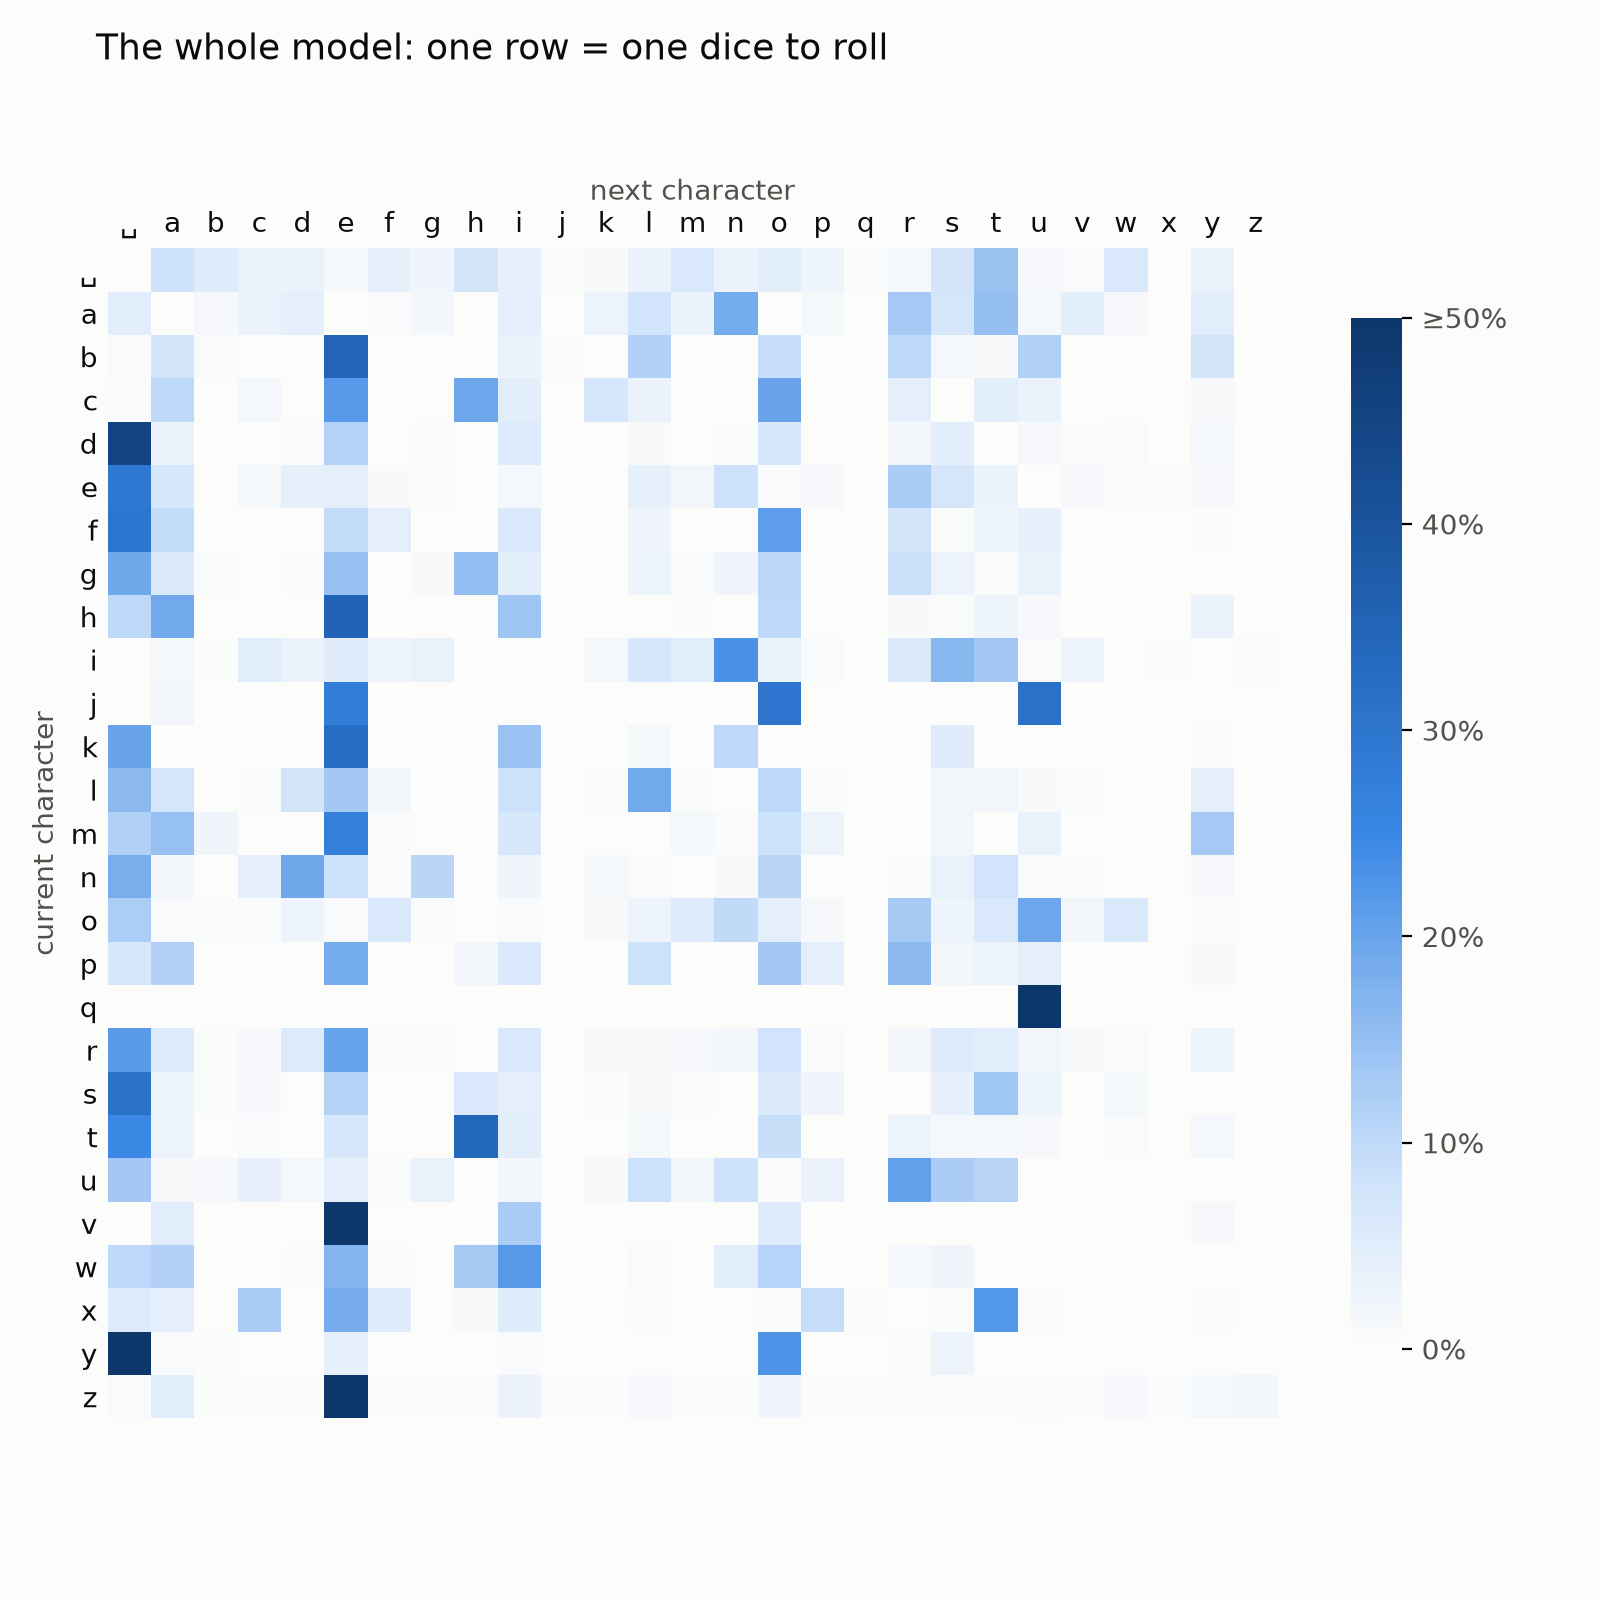
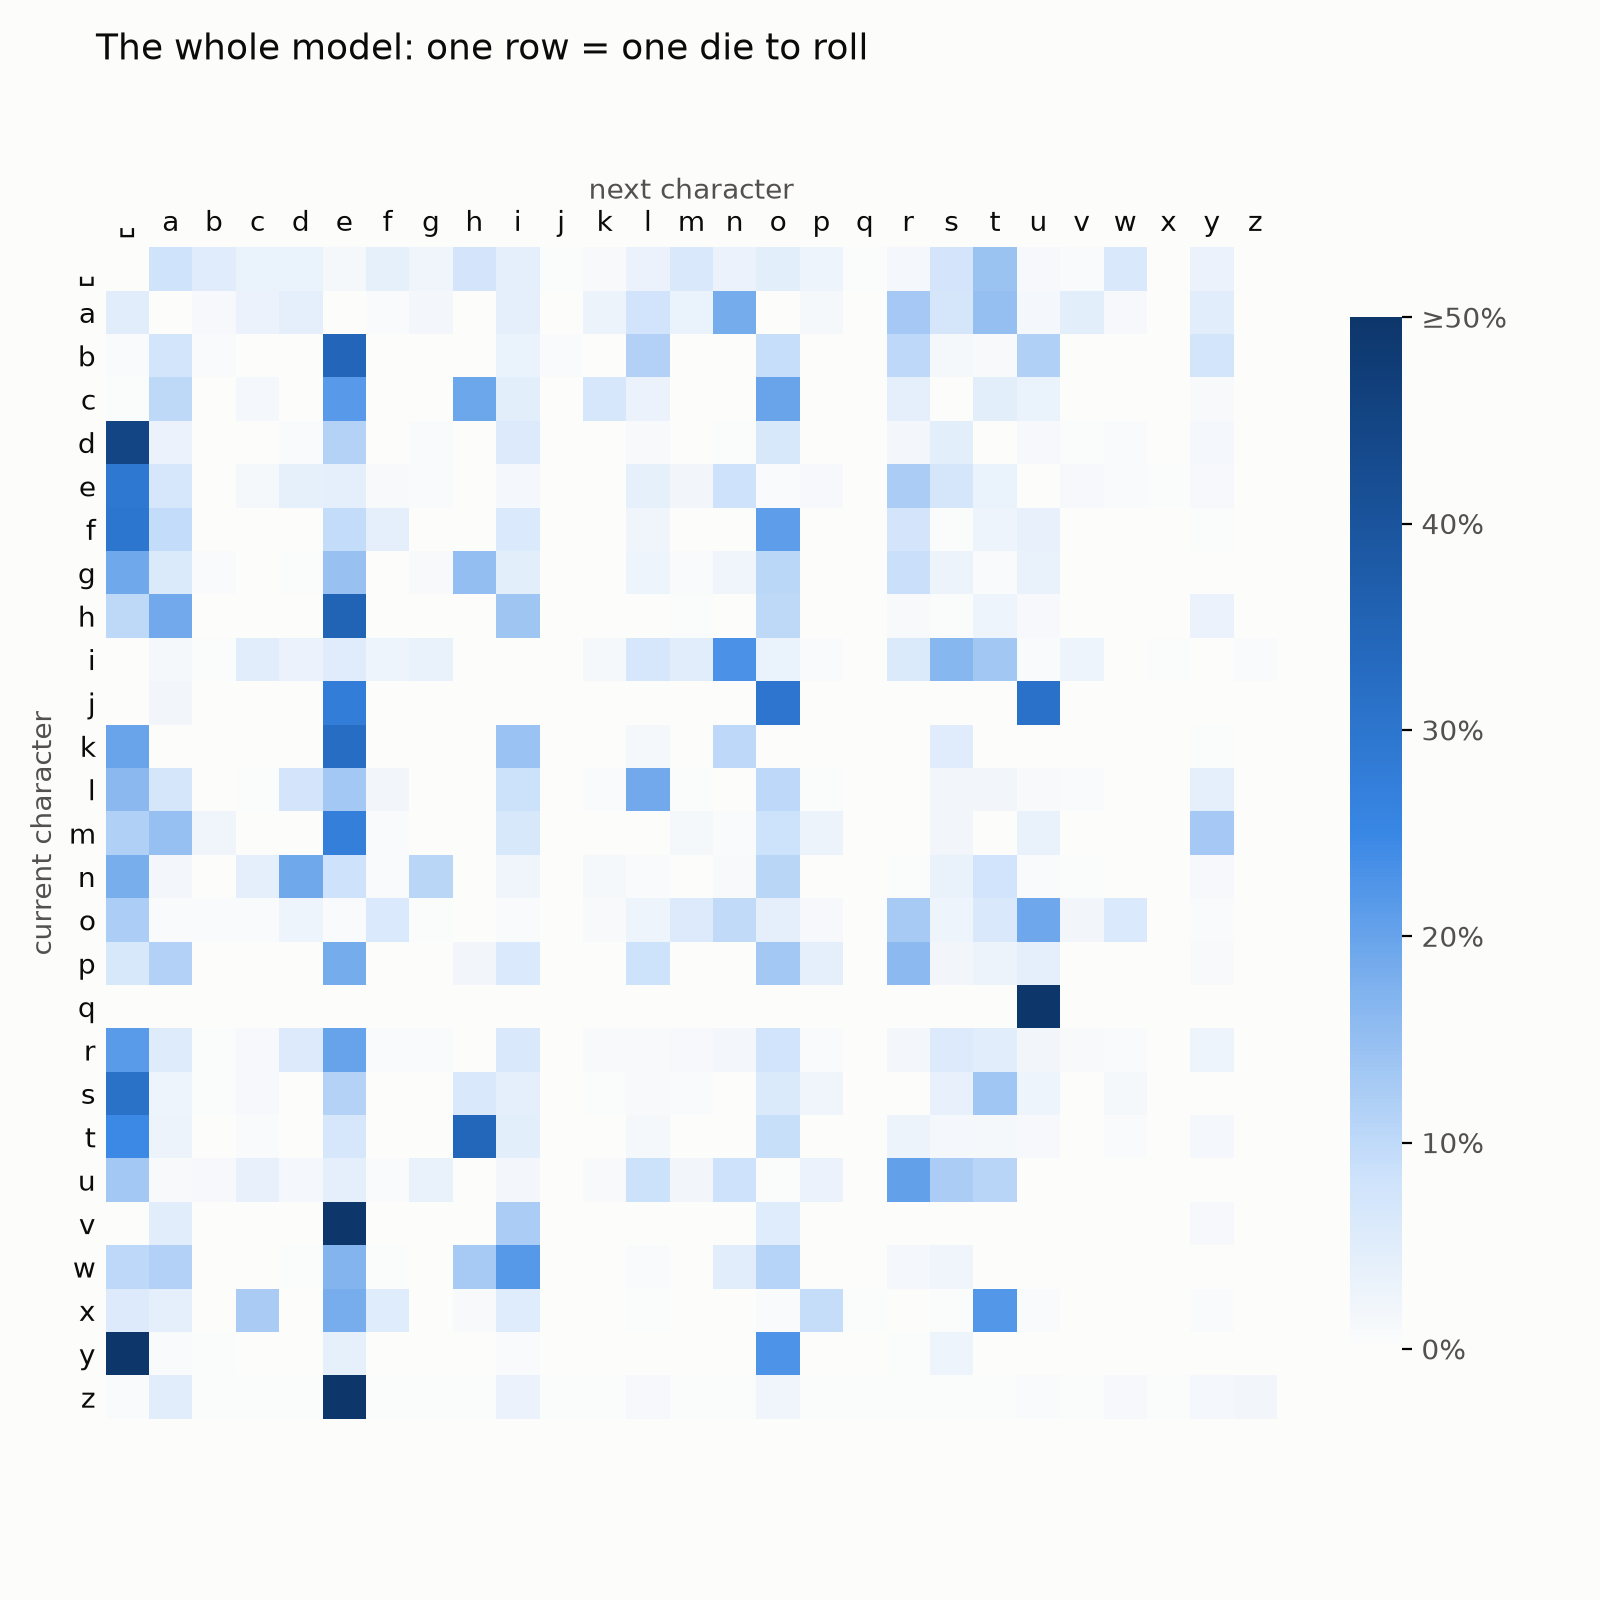
Blog post 1: reviewer fixes, consistent headings and terms, rabbit hole boxes

diff --git a/blog/make_charts.py b/blog/make_charts.py
@@ -104,7 +104,7 @@ def bigram_heatmap():
     bar.ax.set_yticklabels(["0%", "10%", "20%", "30%", "40%", "≥50%"], color=TEXT_MUTED)
     bar.outline.set_visible(False)
 
-    fig.suptitle("The whole model: one row = one dice to roll", x=0.06, ha="left", color=TEXT, fontsize=13)
+    fig.suptitle("The whole model: one row = one die to roll", x=0.06, ha="left", color=TEXT, fontsize=13)
     fig.tight_layout()
     fig.savefig(IMAGES / "bigram_heatmap.png", dpi=200)
 
@@ -241,7 +241,7 @@ BRICKS = [
     ("tokenizer", "text \u2194 ids:  \"hi\" \u2192 [46, 47]", "#fe8a18"),
     ("split", "90% for learning, 10% locked away", "#f2cd37"),
     ("train", "count every pair \u2192 65\u00d765 table", "#0055bf"),
-    ("evaluate", "score it on the locked-away 10%", "#237841"),
+    ("evaluate", "score on training + the locked-away 10%", "#237841"),
     ("generate", "roll dice \u2192 new text", "#81007b"),
 ]
 

diff --git a/blog/01-just-count.md b/blog/01-just-count.md
@@ -8,14 +8,14 @@
 
 This is Part 1 of a series where I build a **language model from scratch, one idea at a time**, as someone who isn't comfortable with neural networks yet. I'm following Andrej Karpathy's ["Let's build GPT"](https://www.youtube.com/watch?v=kCc8FmEb1nY), split into small levels I can actually understand:
 
-1. **This post:** the smallest *complete* system: we feed the text in, a simple model that learns, and generates text, and a way to **score** it. Our model is deliberately dumb. What matters is the setup.
+1. **This post:** the smallest *complete* system: load some text, build a simple model that learns from it and writes, and find a way to **score** it. Our model is deliberately dumb. What matters is the setup.
 2. **The posts after this:** one new idea per post, each one adding a row to a **scoreboard** that goes from random gibberish to something that actually reads like text. I'm starting with Shakespeare, like Andrej, so my numbers can be checked against his. The end goal is a model that learns from and writes **Indian text**. (Which datasets should I try? Tell me in the comments :P)
 
 ---
 
 ## What is an LLM?
 
-LLM stands for **Large Language Model**. It's a sophisticated piece of tech that **predicts the next word** (more precisely, the next *token*) in a language it was trained on.
+LLM stands for **Large Language Model**. It's a program that **predicts the next word** (more precisely, the next *token*) in a language it was trained on.
 
 That's really the whole trick. Predict the next token, add it to the text, and ask again. Do that in a loop and the model *writes*:
 
@@ -23,7 +23,7 @@ That's really the whole trick. Predict the next token, add it to the text, and a
 
 *Made-up probabilities, but the loop is real: guess the next word, pick one, append it, repeat.*
 
-Lets break down each word in a LLM:
+Let's break down each word in LLM:
 
 **Large:** everything about these models is huge.
 
@@ -47,7 +47,7 @@ Hmm, the simplest way: ask the machine to pick random characters, one after anot
 
 ```python
 # an extremely dumb machine that writes, hehe..
-chars = sorted(set(text))  # the 65 different characters in english
+chars = sorted(set(text))  # every distinct character in our text (65 for Shakespeare)
 for i in range(200):
     print(random.choice(chars), end="")
 ```
@@ -69,7 +69,7 @@ What could be a better idea?
 
 But how do we calculate those probabilities? How do we know what comes after `_`?
 
-Answer : We learn them from examples. For that we first need a **dataset**: a long piece of real text where we can see which characters tend to follow which. I'm using [Tiny Shakespeare](https://raw.githubusercontent.com/karpathy/char-rnn/master/data/tinyshakespeare/input.txt), which contains about 1.1 million characters of plays:
+Answer: We learn them from examples. For that we first need a **dataset**: a long piece of real text where we can see which characters tend to follow which. I'm using [Tiny Shakespeare](https://raw.githubusercontent.com/karpathy/char-rnn/master/data/tinyshakespeare/input.txt), which contains about 1.1 million characters of plays:
 
 ```
 First Citizen:
@@ -112,7 +112,7 @@ Our random writer from earlier picks every character with the same 1-in-65 chanc
 
 So how would *you* guess the next character, if all you had was Shakespeare and a pencil?
 
-**Attempt 1: guess the most common character.**
+**Attempt 1: guess the most common character.**  
 Count every character in the text. Space shows up 15% of the time and `e` 8.5%, while `z` and `X` almost never do. What if our machine rolls dice weighted by these counts? Let's try it:
 
 ```python
@@ -139,7 +139,9 @@ Still gibberish, but it *looks* more like text. Compare it with the random write
 | Rare stuff (`z`, `X`, `$`, `&`) | 5.6% | 0% |
 
 **Attempt 2: look at what came just before.**  
-One key observation: context matters a lot in guessing what comes next. Try it yourself, what's the blank in "afte_"? You didn't need a dice roll for that, right?
+One key observation: context matters a lot in guessing what comes next. Try it yourself, what's the blank in "afte_"? 
+
+You didn't need a dice roll for that, right?
 
 But how do we embed this observation into our model?
 
@@ -149,7 +151,7 @@ For example, in our Shakespeare text, `q` is followed by `u`... all 609 times. A
 
 So instead of one big tally, we keep **one tally per character**: "what usually comes after `a`?", "what usually comes after `b`?", and so on.
 
-**Why stop at one character?**
+**Why stop at one character?**  
 Fair question. Two characters of memory would be smarter (`th` → `e` is a strong bet). But the table grows fast:
 
 | Look back | Table size |
@@ -275,7 +277,7 @@ p = probs[current][following]   # the chance the model gave to the real next cha
 
 Our counted table says that after `t`, the chance of `h` is **34%**. That's a decent guess. If it had said 90%, even better. If it had said 1%, it was badly caught off guard.
 
-So the higher the `p (probability)`, the less surprised the model was. Now we need to turn `p` into a surprise number.
+In other words, So the higher the '`p` '(probability), the less surprised the model was. hmm,
 
 ### Step 2: turn probability into surprise
 
@@ -308,7 +310,15 @@ Does it match your table? It ticks every box:
 - **Sure and right costs nothing.** 100% → 0.
 - **The less you expected it, the more it hurts.** And it hurts *a lot* near 0%. Saying "this will never happen" and then being wrong is the worst possible mistake. Remember the +1 smoothing? This is why it matters: no pair is ever given exactly 0%, so the surprise never hits ∞.
 
-Want to dig into why it's `-log` and not something else? [Information is surprise](https://plus.maths.org/information-surprise) on Plus Magazine is a gentle read. StatQuest's [Entropy (for data science) Clearly Explained!!!](https://www.youtube.com/watch?v=YtebGVx-Fxw) builds surprise from scratch, and 3Blue1Brown's [Solving Wordle using information theory](https://www.youtube.com/watch?v=v68zYyaEmEA) shows the same idea through a game.
+> **🐇 Rabbit hole: why** `-log`**, of all things?**
+>
+> Flip a coin and get heads: that's a 50% event, surprise `-log(0.5)` = 0.69. Flip again, heads again. How surprised should you be by *two* heads in a row?
+>
+> It feels like it should be one surprise plus another: 0.69 + 0.69 = 1.39. Now check: two heads is a 25% event, and `-log(0.25)` = **1.39**. The surprises just add up!
+>
+> That's the whole reason for the log: probabilities *multiply* (50% × 50% = 25%), but surprise should *add*, and log is the function that turns multiplying into adding. Shannon's insight, in one coin flip.
+>
+> Go deeper: [Information is surprise](https://plus.maths.org/information-surprise) on Plus Magazine is a gentle read. StatQuest's [Entropy (for data science) Clearly Explained!!!](https://www.youtube.com/watch?v=YtebGVx-Fxw) builds surprise from scratch, and 3Blue1Brown's [Solving Wordle using information theory](https://www.youtube.com/watch?v=v68zYyaEmEA) shows the same idea through a game.
 
 ### Step 3: average it over lots of text
 
@@ -358,7 +368,7 @@ p = probs[range(len(targets)), targets]      # Step 1: the chance each real next
 loss = (-p.log()).mean()                     # Steps 2 and 3: surprise, then average
 ```
 
-### Step 4: baselining our losses
+### Step 4: what's a good number?
 
 A loss number means nothing alone. We need some reference points to compare it:
 
@@ -371,7 +381,14 @@ A loss number means nothing alone. We need some reference points to compare it:
   **This is the bar every model must clear.** Anything near 4.17 has learned nothing.
 
 [this is food for thought section idea -> we need a short sections like this to encourage users to think more deeply or in a alternative fasion or to challenge their understanding with wisdom nuggets, we can expand this a bit more with some visualization if needed, here the insight is, the lower the characters or tokens the model is torn between, the better the outcome.]  
-Note: Here's a handy way to feel a loss number: `e^loss` tells you roughly how many characters the model is "torn between". Random guessing is e^4.17 = **65**, torn between everything. A loss of 2.46 is e^2.46 ≈ **12**. Same alphabet, but now it's like choosing among 12 instead of 65.
+
+> **🐇 Rabbit hole: what does a loss number actually *feel* like?**
+>
+> Loss numbers are hard to feel. Here's a trick: `e^loss` tells you roughly how many characters the model is "torn between".
+>
+> Try it: random guessing is `e^4.17` = **65**, torn between everything. A loss of 2.46 is `e^2.46` ≈ **12**. Same alphabet, but now it's like choosing among 12 instead of 65. What would a loss of 0.69 mean? (`e^0.69` = 2: a coin flip between two characters.)
+>
+> So every drop in loss shrinks the model's "shortlist". Keep an eye on this number as the series goes on.
 
 ### Step 5: training vs validation, the honesty check
 
@@ -389,6 +406,7 @@ Only `train_data` ever changes the model. Then we score it on **both** parts, us
 
 ```python
 model.count_pairs(train_data)   # learn: only from the training text
+probs = model.log_probs.exp()   # the counted table, as probabilities
 
 training_loss   = average_surprise(probs, train_data)   # how well it fits what it studied
 validation_loss = average_surprise(probs, val_data)     # how well it does on new text
@@ -429,7 +447,7 @@ Every poll lands between 2.45 and 2.49, around the exact value of 2.482. So **a 
 
 ---
 
-## Results
+## So... did it work?
 
 ### Before: an empty table
 
@@ -491,7 +509,7 @@ From 4.17 to 2.46 just by counting pairs!
 
 ---
 
-## How can we do better than this ?
+## How can we do better than this?
 
 This model has a hard limit: it **only ever sees one character**. After `e`, it can't tell whether it's in `"the "` or `"thee"` or `"here"`. To look further back we'd need a bigger table: two characters back is 65³ ≈ 275k cells, and eight back is 65⁹ ≈ 21 quadrillion cells. Most of which would be empty. **Counting doesn't scale.**
 
@@ -505,7 +523,7 @@ In this post we built:
 
 - **A pipeline:** load data → tokenizer → training / validation split → train → evaluate → generate.
 - **The simplest language model:** a 65×65 table of "what usually comes next", trained by just counting.
-- **A scorecard:** the average surprise (cross-entropy), measured on text the model has never seen, with two anchors (4.17 = random, 0 = perfect) and a poll to keep it fast.
+- **A way to score it:** the average surprise (cross-entropy), measured on text the model has never seen, with two anchors (4.17 = random, 0 = perfect) and a poll to keep it fast.
 - **Scoreboard v1:** from 4.17 to 2.46.
 
 **Next post:** *Same score, new engine.* We throw away counting, start from a table of zeros, and teach it by nudging, and we'll watch the loss fall step by step.
